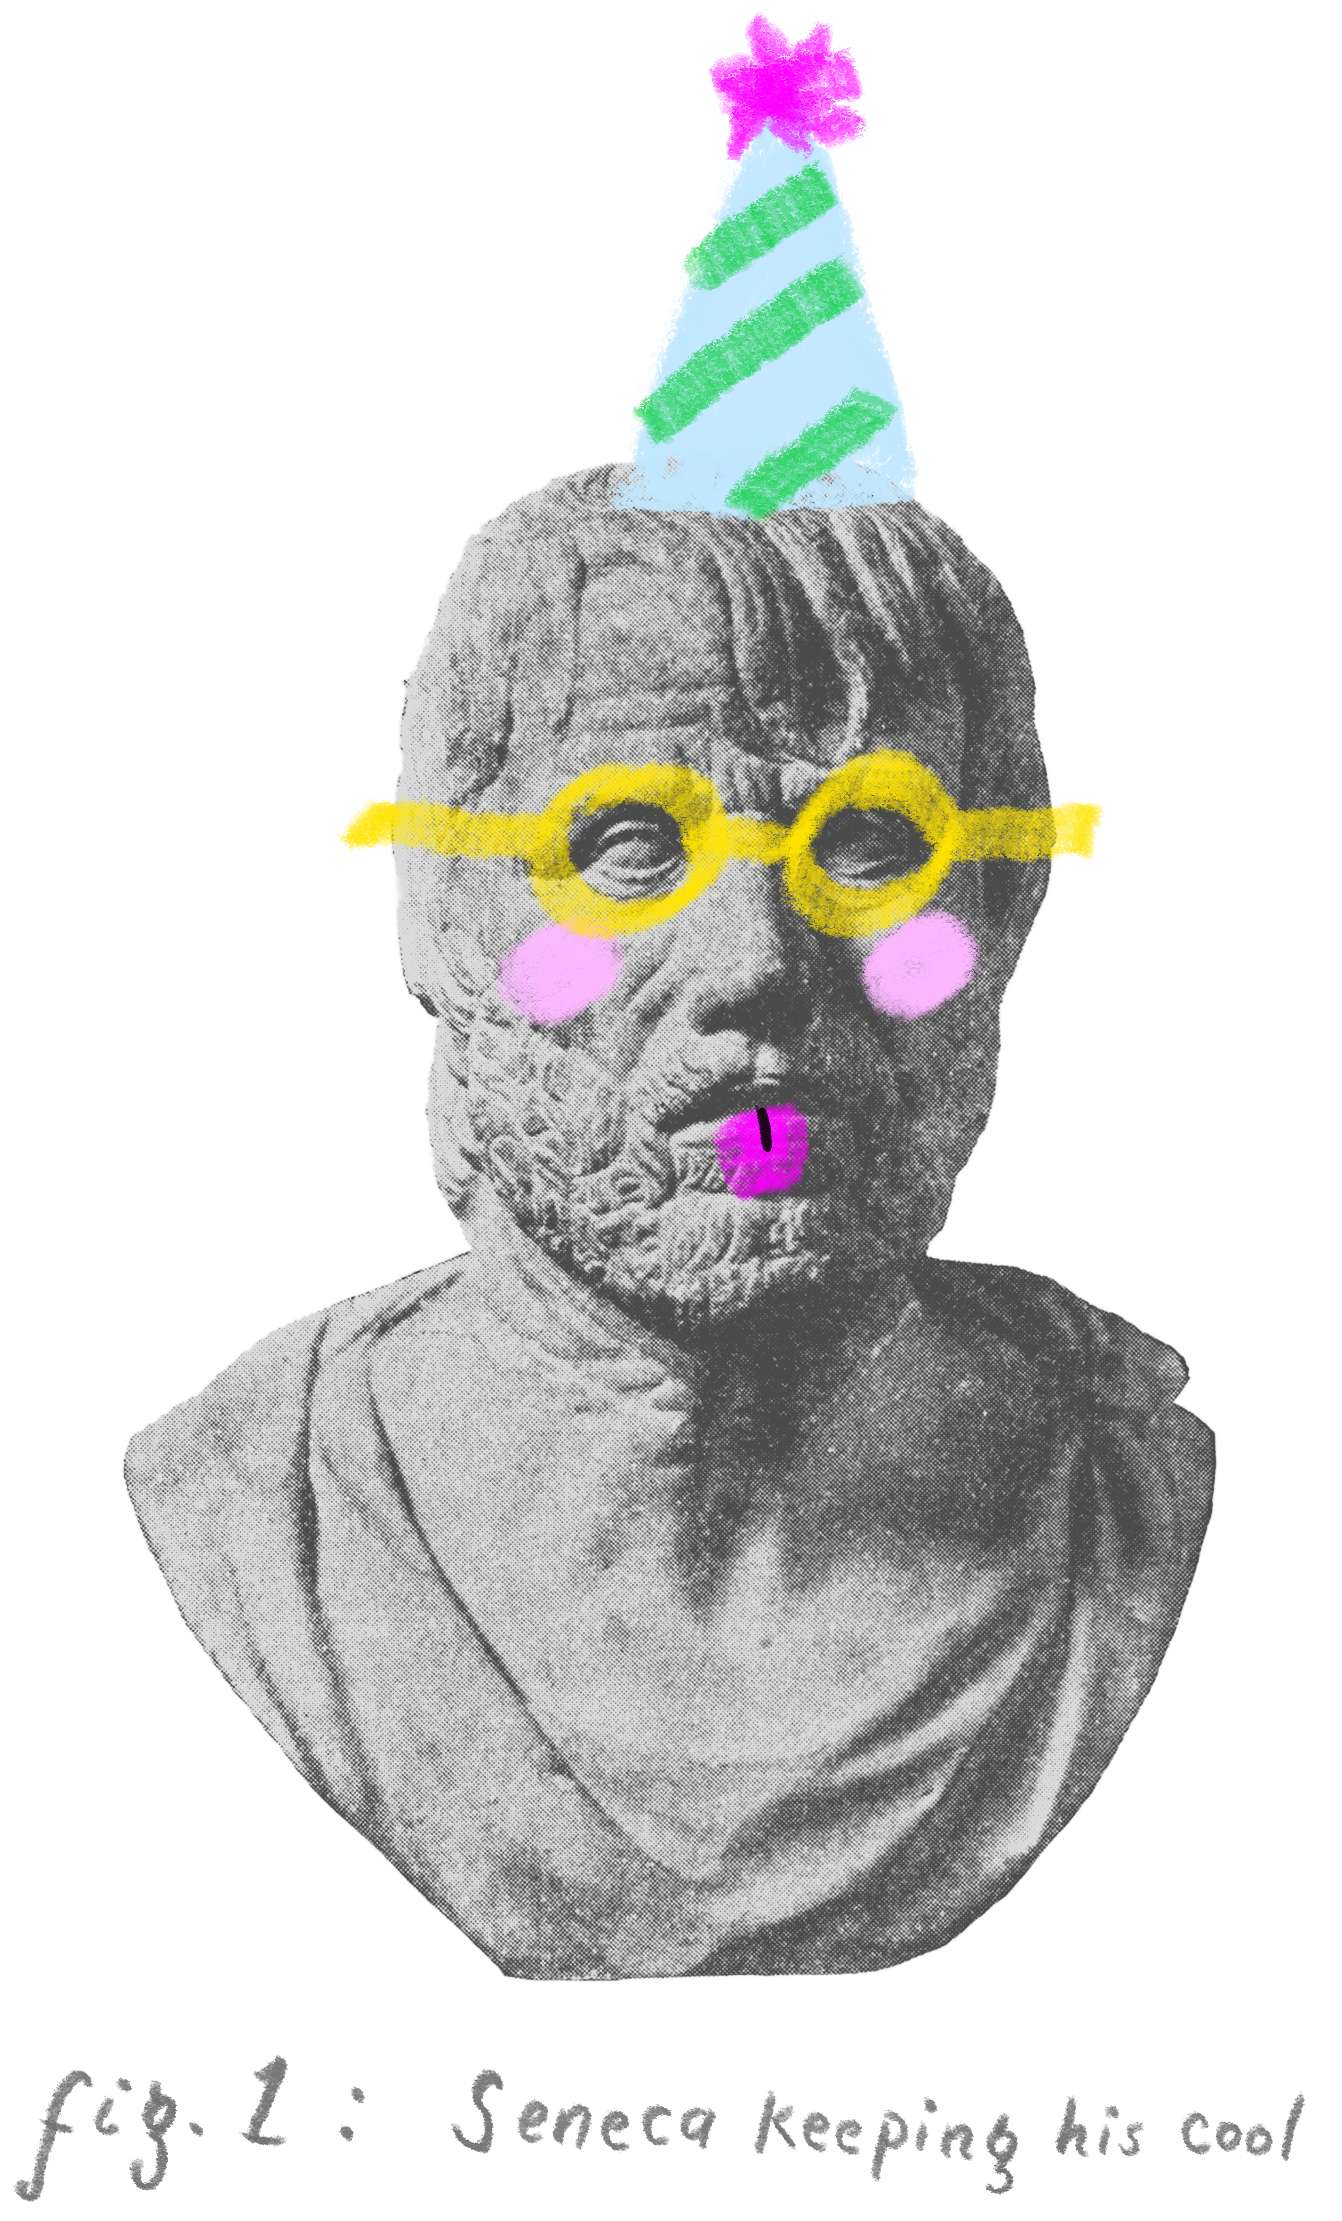
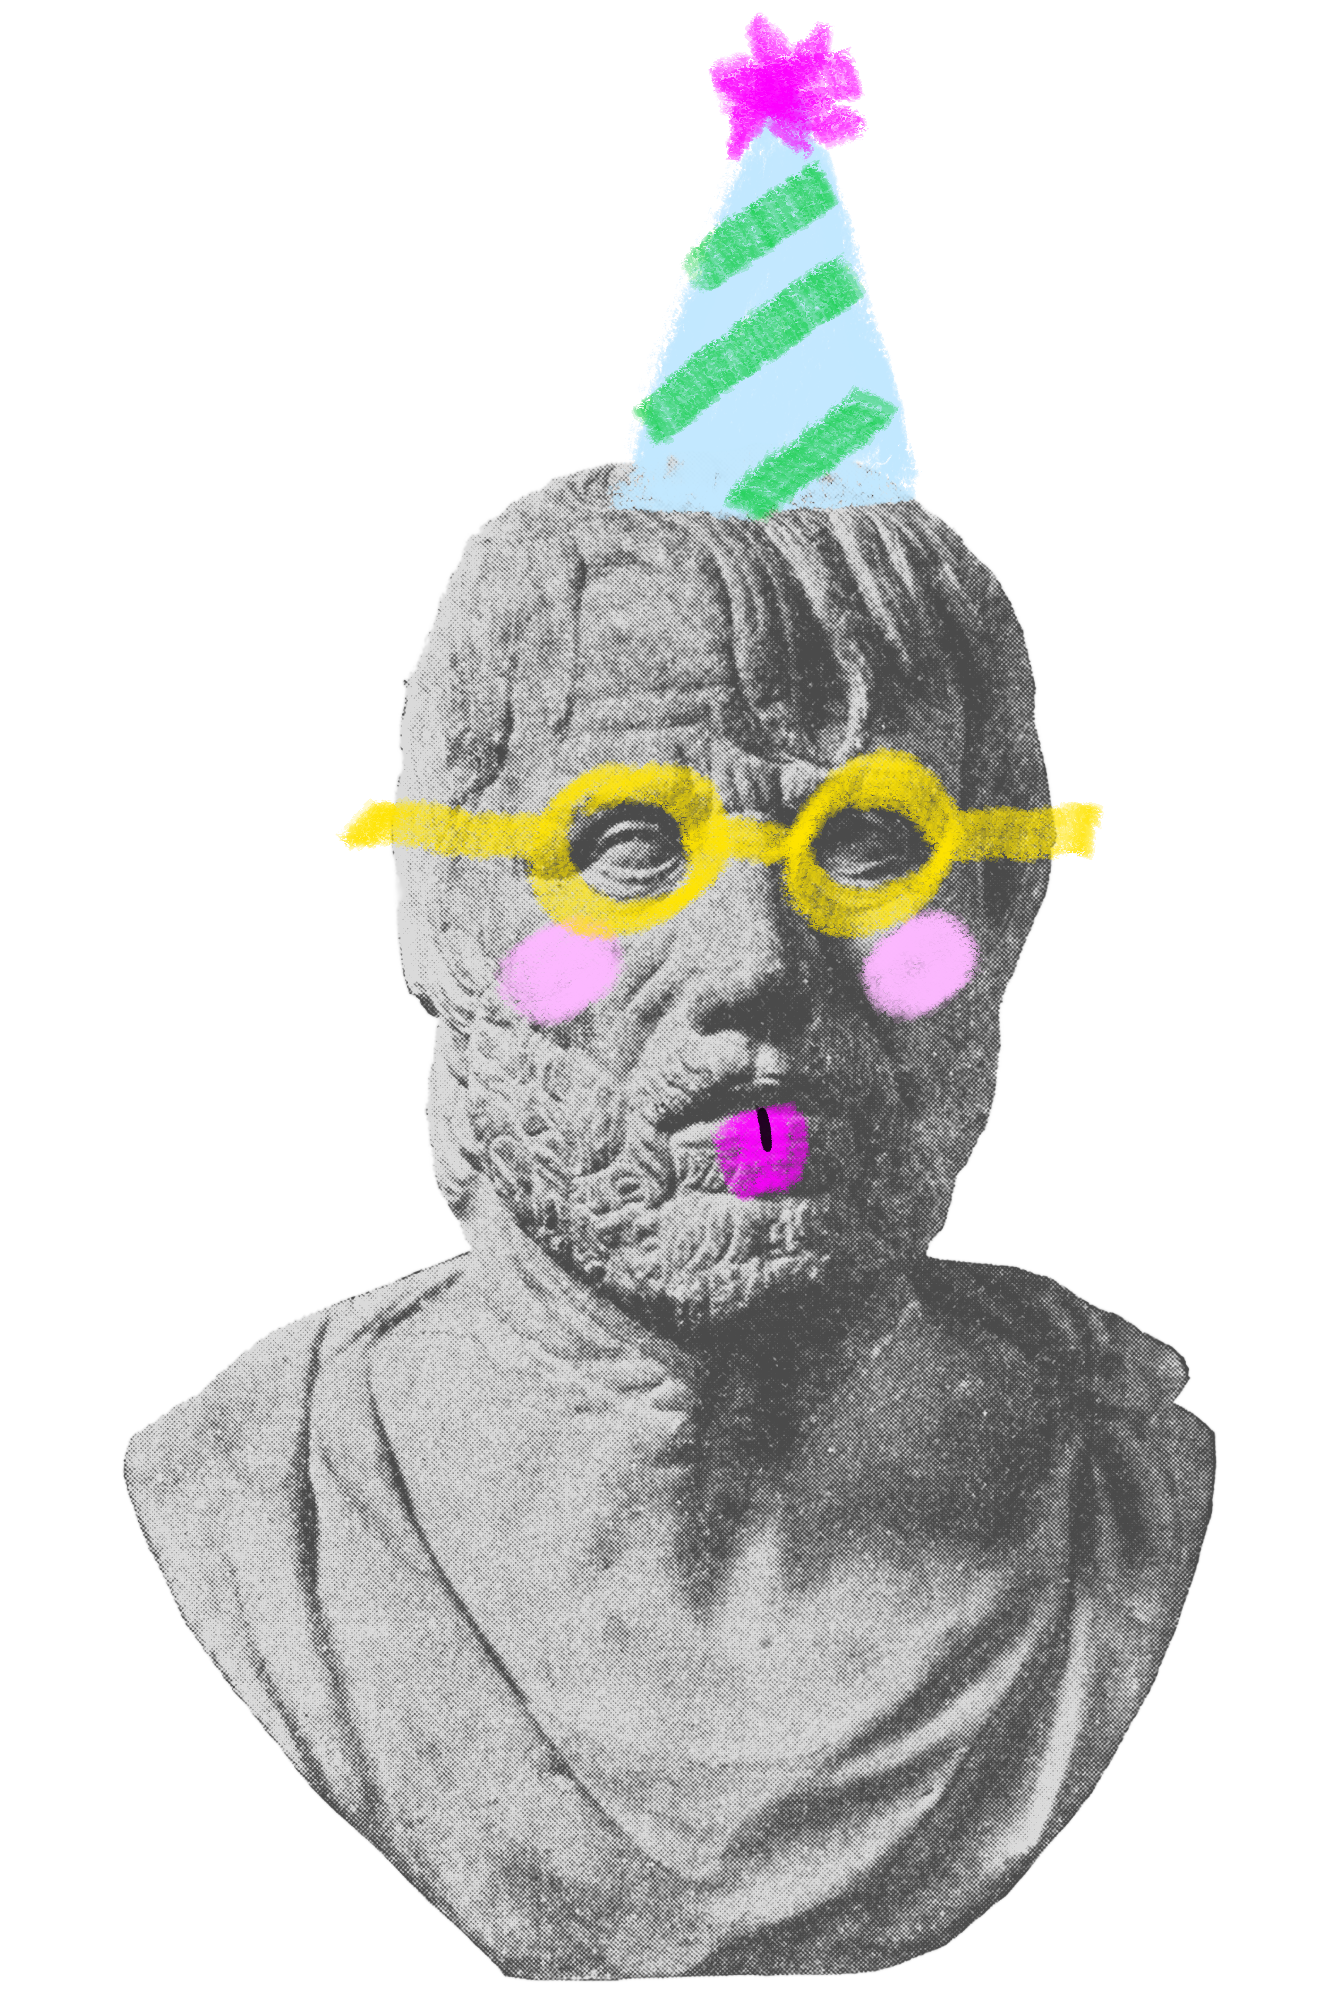
changed phrasing and text

diff --git a/src/HateShredder.jsx b/src/HateShredder.jsx
@@ -63,23 +63,23 @@ const SOURCE_TITLES = [
   "Rhetoric",
   "",
   "On Anger (De Ira)",
-  "",
 ];
 
 const T = {
   en: {
-    tag: "Feed it your worst. Out comes your point.",
+    tag: "Say it. Just say it better.",
     story1:
-      "Your dad keeps voting for that politician. Your colleague answers only the emails that " +
-      "serve him. Your project partner waited until you were on holiday to present the work \u2014 " +
-      "without you. The neighbour has hit his crazy party phase. The rage is completely reasonable.",
+      "Your dad keeps voting for that politician and you don't get it. Your colleague answers only " +
+      "the emails that serve him. Your project partner waited until you were on holiday to present " +
+      "the work \u2014 without you. The neighbour blocks your parking spot. Again. The rage is " +
+      "completely reasonable. The rant is not.",
     story2:
-      "The 2 a.m. reply you're drafting is not. Hate Shredder runs your worst draft through a few " +
-      "thousand years of people working out how to disagree without making it worse \u2014 Aristotle, " +
-      "Seneca, Socrates, and modern minds like Carnegie, Rosenberg, and Haidt \u2014 and hands back " +
-      "something they might actually hear. Not just a bot: a very old argument about how to be heard.",
+      "Rant Shredder runs your worst draft through a few thousand years of people figuring out how " +
+      "to disagree without making it worse \u2014 Aristotle, Seneca, Socrates, and modern minds like " +
+      "Carnegie, Rosenberg, and Haidt \u2014 and hands back something people might actually hear. " +
+      "Not just a bot: a very old argument about how to be heard \u2014 and keep the conversation civilized.",
     placeholder:
-      "Type the message you actually want to send. The angrier the draft, the more there is to work with.",
+      "Just write your angry message. Pick a shredding mode. Argue like an old Greek.",
     modes: {
       direct: { label: "Direct", blurb: "Say it cleanly, without the heat." },
       candid: { label: "Candid", blurb: "Say it with feeling, not flourish." },
@@ -97,24 +97,23 @@ const T = {
       { a: "Aristotle, ", n: " \u2014 ethos, pathos, logos, and kairos" },
       { a: "Plato and Socrates", n: " \u2014 the dialectic and the Socratic elenchus" },
       { a: "Seneca, ", n: ", with Epictetus on Stoic restraint" },
-      { a: 'The principle of charity, or "steelmanning"', n: " \u2014 reading the other side at its strongest" },
     ],
   },
   es: {
     tag: "Dale lo peor. Sale tu punto.",
     story1:
-      "Tu padre vuelve a votar a ese político. Tu colega solo responde los correos que le " +
-      "convienen. Tu compañero de proyecto esperó a que estuvieras de vacaciones para presentar " +
-      "el trabajo \u2014 sin ti. El vecino ha entrado en su fase de fiestas sin fin. El enfado es " +
-      "totalmente razonable.",
+      "Tu padre vuelve a votar a ese político y no lo entiendes. Tu colega solo responde los " +
+      "correos que le convienen. Tu compañero de proyecto esperó a que estuvieras de vacaciones " +
+      "para presentar el trabajo \u2014 sin ti. El vecino te bloquea el aparcamiento. Otra vez. " +
+      "El enfado es totalmente razonable. La perorata, no.",
     story2:
-      "La respuesta que redactas a las 2 de la madrugada, no. Hate Shredder pasa tu peor borrador " +
-      "por unos cuantos miles de años de gente aprendiendo a discrepar sin empeorar las cosas \u2014 " +
-      "Aristóteles, Séneca, Sócrates y mentes modernas como Carnegie, Rosenberg y Haidt \u2014 y te " +
-      "devuelve algo que quizá sí escuchen. No es solo un bot: es una discusión muy antigua sobre " +
-      "cómo hacerse oír.",
+      "Rant Shredder pasa tu peor borrador por unos cuantos miles de años de gente aprendiendo " +
+      "a discrepar sin empeorar las cosas \u2014 Aristóteles, Séneca, Sócrates y mentes modernas " +
+      "como Carnegie, Rosenberg y Haidt \u2014 y te devuelve algo que quizá sí escuchen. No es " +
+      "solo un bot: es una discusión muy antigua sobre cómo hacerse oír \u2014 y mantener la " +
+      "conversación civilizada.",
     placeholder:
-      "Escribe el mensaje que de verdad quieres enviar. Cuanto más enfadado el borrador, más hay con lo que trabajar.",
+      "Escribe tu mensaje enfadado. Elige un modo. Discute como un griego antiguo.",
     modes: {
       direct: { label: "Directo", blurb: "Dilo claro, sin la rabia." },
       candid: { label: "Sincero", blurb: "Dilo con emoción, sin drama." },
@@ -132,24 +131,23 @@ const T = {
       { a: "Aristóteles, ", n: " \u2014 ethos, pathos, logos y kairós" },
       { a: "Platón y Sócrates", n: " \u2014 la dialéctica y el elenchus socrático" },
       { a: "Séneca, ", n: ", con Epicteto sobre la mesura estoica" },
-      { a: 'El principio de caridad, o "steelmanning"', n: " \u2014 leer a la otra parte en su versión más fuerte" },
     ],
   },
   de: {
     tag: "Wütend rein. Überzeugend raus.",
     story1:
-      "Dein Vater wählt schon wieder diesen Politiker. Dein Kollege beantwortet nur die Mails, die " +
-      "ihm nützen. Dein Projektpartner hat gewartet, bis du im Urlaub warst, um die Arbeit zu " +
-      "präsentieren \u2014 ohne dich. Der Nachbar ist in seiner wilden Party-Phase. Die Wut ist völlig " +
-      "berechtigt.",
+      "Dein Vater wählt schon wieder diesen Politiker \u2014 und du verstehst es einfach nicht. " +
+      "Dein Kollege beantwortet nur die Mails, die ihm nützen. Dein Projektpartner hat gewartet, " +
+      "bis du im Urlaub warst, um die Arbeit zu präsentieren \u2014 ohne dich. Der Nachbar " +
+      "blockiert deinen Parkplatz. Schon wieder. Die Wut ist völlig berechtigt. Der Ausraster nicht.",
     story2:
-      "Die Nachricht, die du um 2 Uhr nachts tippst, ist es nicht. Hate Shredder schickt deinen " +
-      "schlimmsten Entwurf durch ein paar tausend Jahre Erfahrung darin, zu streiten, ohne es " +
-      "schlimmer zu machen \u2014 Aristoteles, Seneca, Sokrates und moderne Köpfe wie Carnegie, " +
-      "Rosenberg und Haidt \u2014 und gibt dir etwas zurück, das dein Gegenüber vielleicht wirklich " +
-      "hört. Nicht nur ein Bot: ein sehr alter Streit darüber, wie man gehört wird.",
+      "Rant Shredder schickt deinen schlimmsten Entwurf durch ein paar tausend Jahre Erfahrung " +
+      "darin, zu streiten, ohne es schlimmer zu machen \u2014 Aristoteles, Seneca, Sokrates und " +
+      "moderne Köpfe wie Carnegie, Rosenberg und Haidt \u2014 und gibt dir etwas zurück, das dein " +
+      "Gegenüber vielleicht wirklich hört. Nicht nur ein Bot: ein sehr alter Streit darüber, " +
+      "wie man gehört wird \u2014 und das Gespräch zivilisiert hält.",
     placeholder:
-      "Schreib die Nachricht, die du wirklich senden willst. Je wütender der Entwurf, desto mehr gibt es zu tun.",
+      "Schreib einfach deine wütende Nachricht. Wähl einen Modus. Streite wie ein alter Grieche.",
     modes: {
       direct: { label: "Direkt", blurb: "Sag es klar, ohne die Hitze." },
       candid: { label: "Offen", blurb: "Sag es mit Gefühl, ohne Drama." },
@@ -167,7 +165,6 @@ const T = {
       { a: "Aristoteles, ", n: " \u2014 Ethos, Pathos, Logos und Kairos" },
       { a: "Platon und Sokrates", n: " \u2014 die Dialektik und der sokratische Elenchos" },
       { a: "Seneca, ", n: ", mit Epiktet über stoische Gelassenheit" },
-      { a: 'Das Prinzip des Wohlwollens, oder "Steelmanning"', n: " \u2014 die Gegenseite in ihrer stärksten Form lesen" },
     ],
   },
 };
@@ -278,7 +275,7 @@ export default function HateShredder() {
 
       <header className="hs-head">
         <img src={senecaImg} alt="Seneca" className="hs-seneca" />
-        <h1 className="hs-title">HATE SHREDDER</h1>
+        <h1 className="hs-title">Rant Shredder</h1>
         <p className="hs-tag">{t.tag}</p>
         <div className="hs-story">
           <p>{t.story1}</p>
@@ -400,10 +397,10 @@ const CSS = `
 .hs-title{
   font-family:'Karrik',ui-sans-serif,system-ui,sans-serif;
   font-weight:800; font-size:clamp(40px,9vw,64px); line-height:.95;
-  letter-spacing:-.02em; margin:0; text-transform:uppercase;
+  letter-spacing:-.02em; margin:0;
 }
 .hs-tag{ font-size:15px; color:#555; margin:10px 0 0; }
-.hs-story{ max-width:500px; margin:18px auto 0; text-align:left; }
+.hs-story{ max-width:500px; margin:32px auto 0; text-align:left; }
 .hs-story p{ font-family:"Garamond","EB Garamond",Georgia,serif; font-size:15.5px; line-height:1.65; color:#333; margin:0 0 10px; }
 .hs-story p:last-child{ margin-bottom:0; }
 